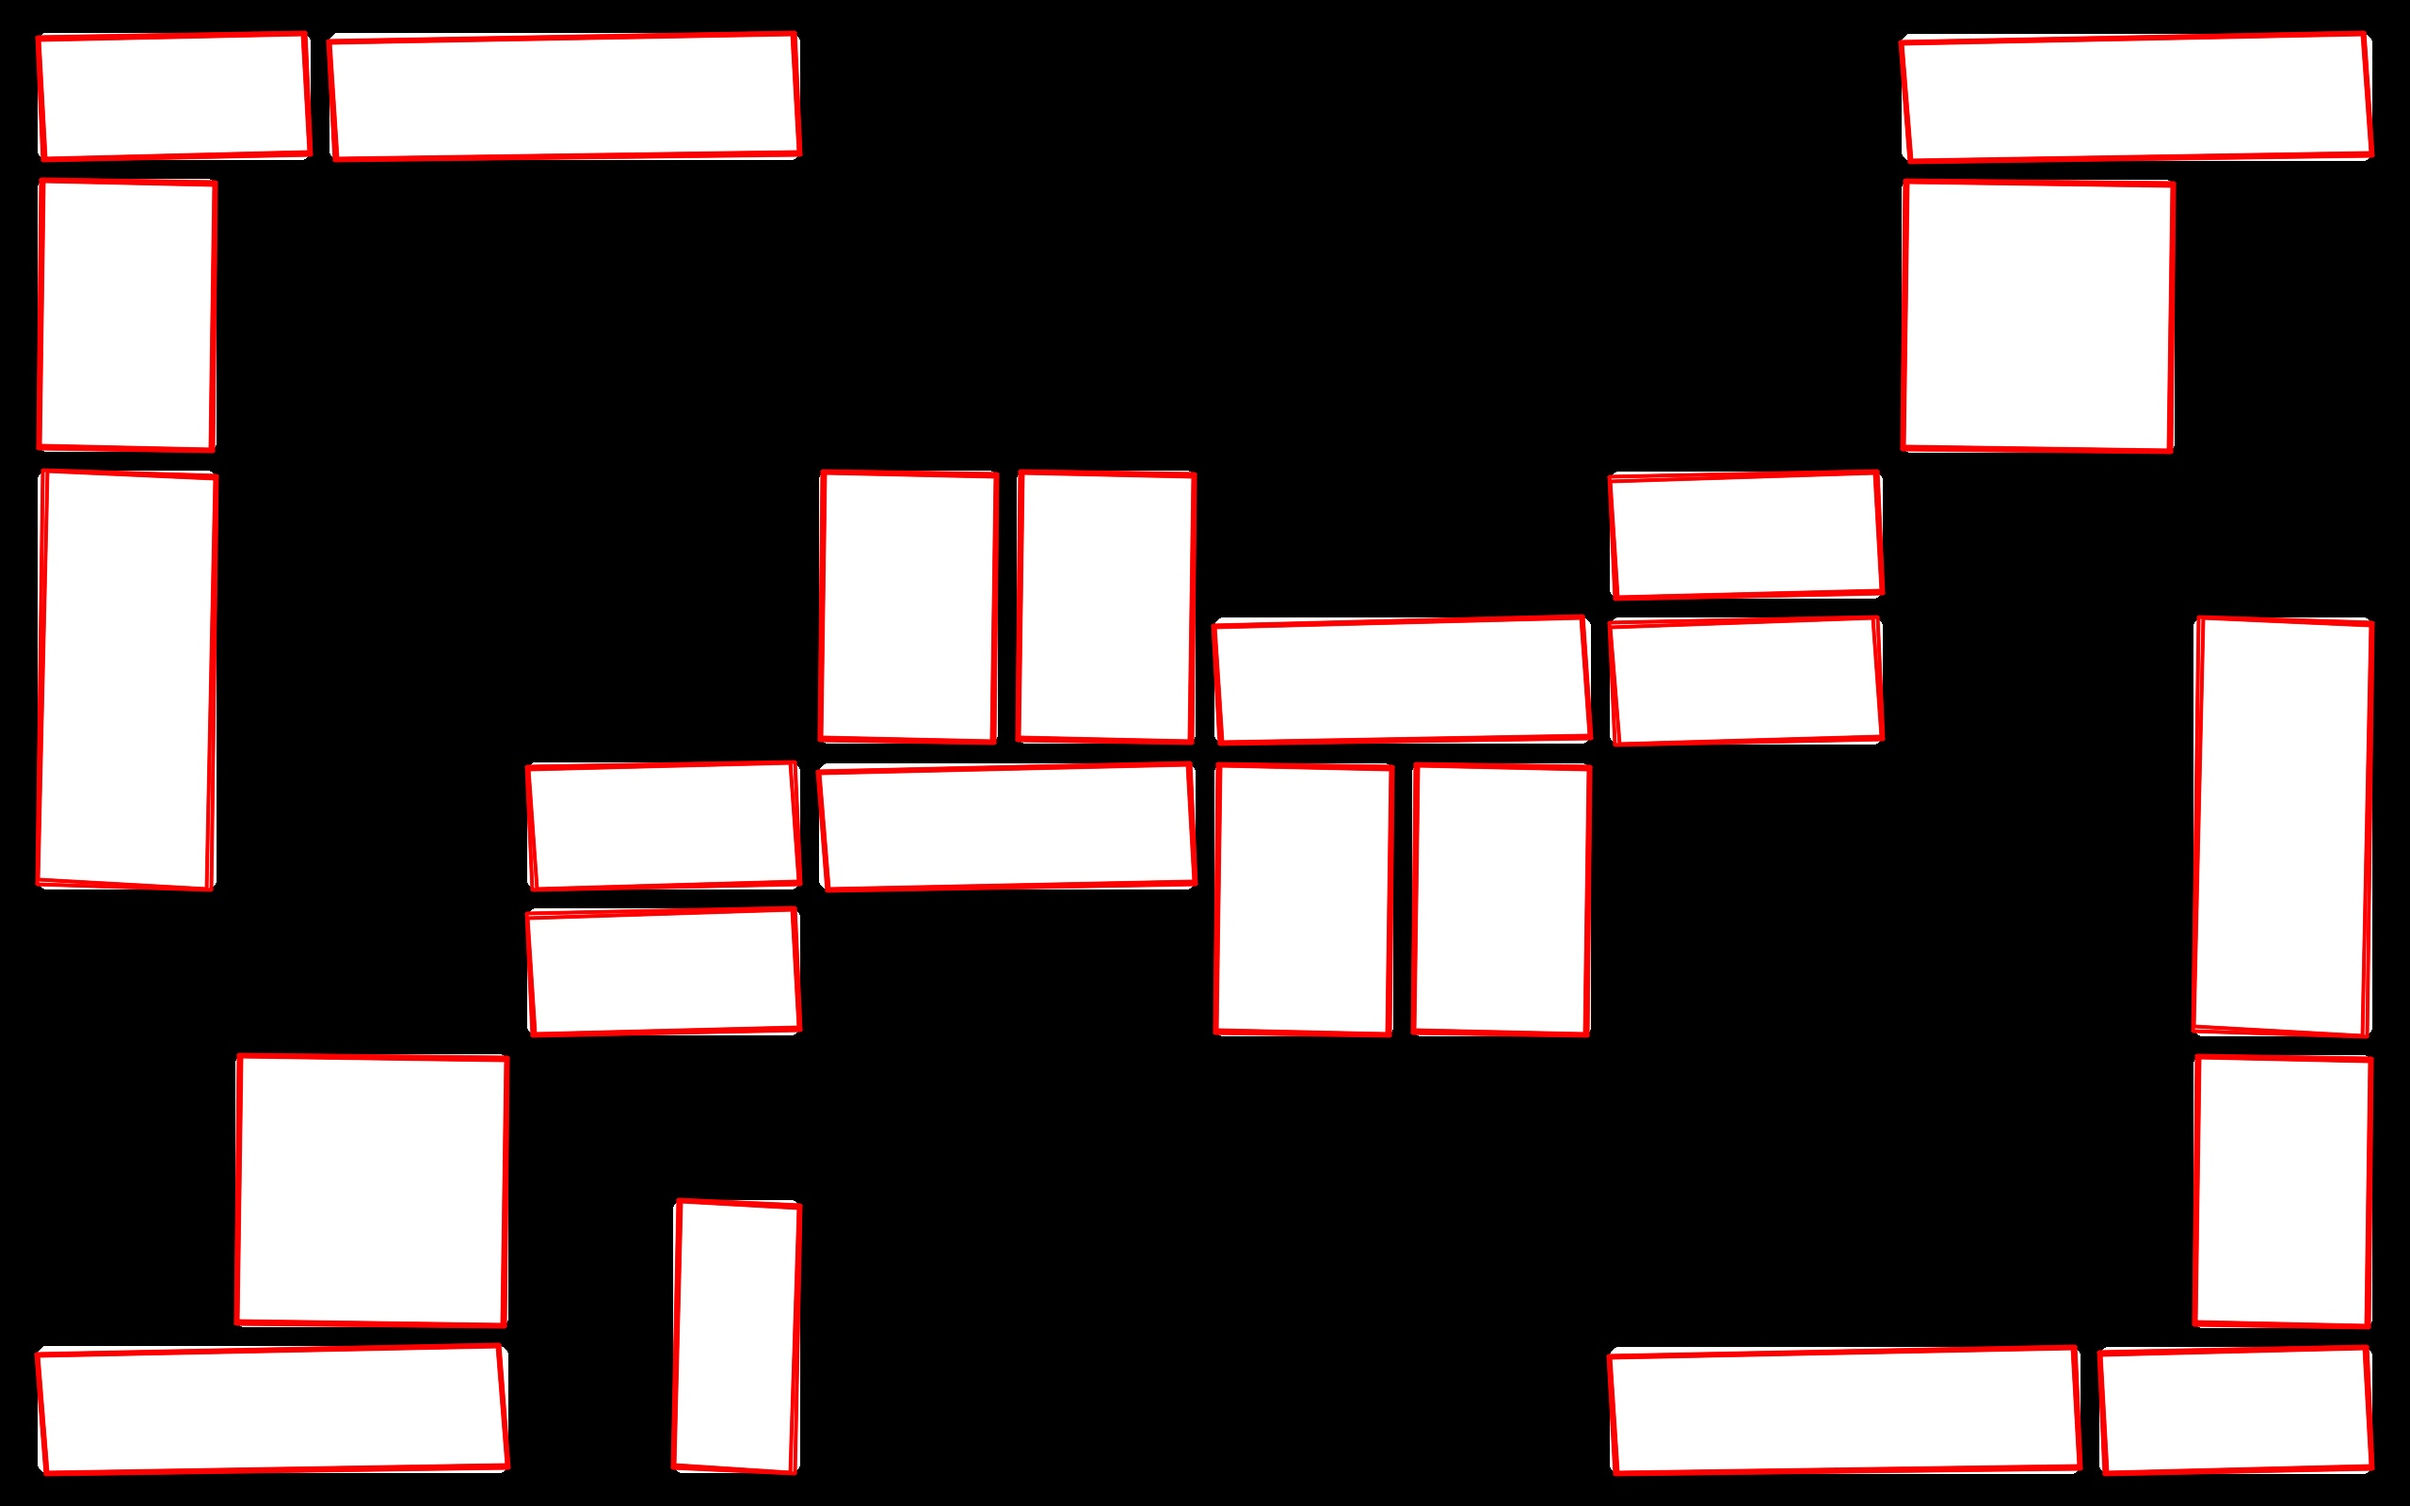
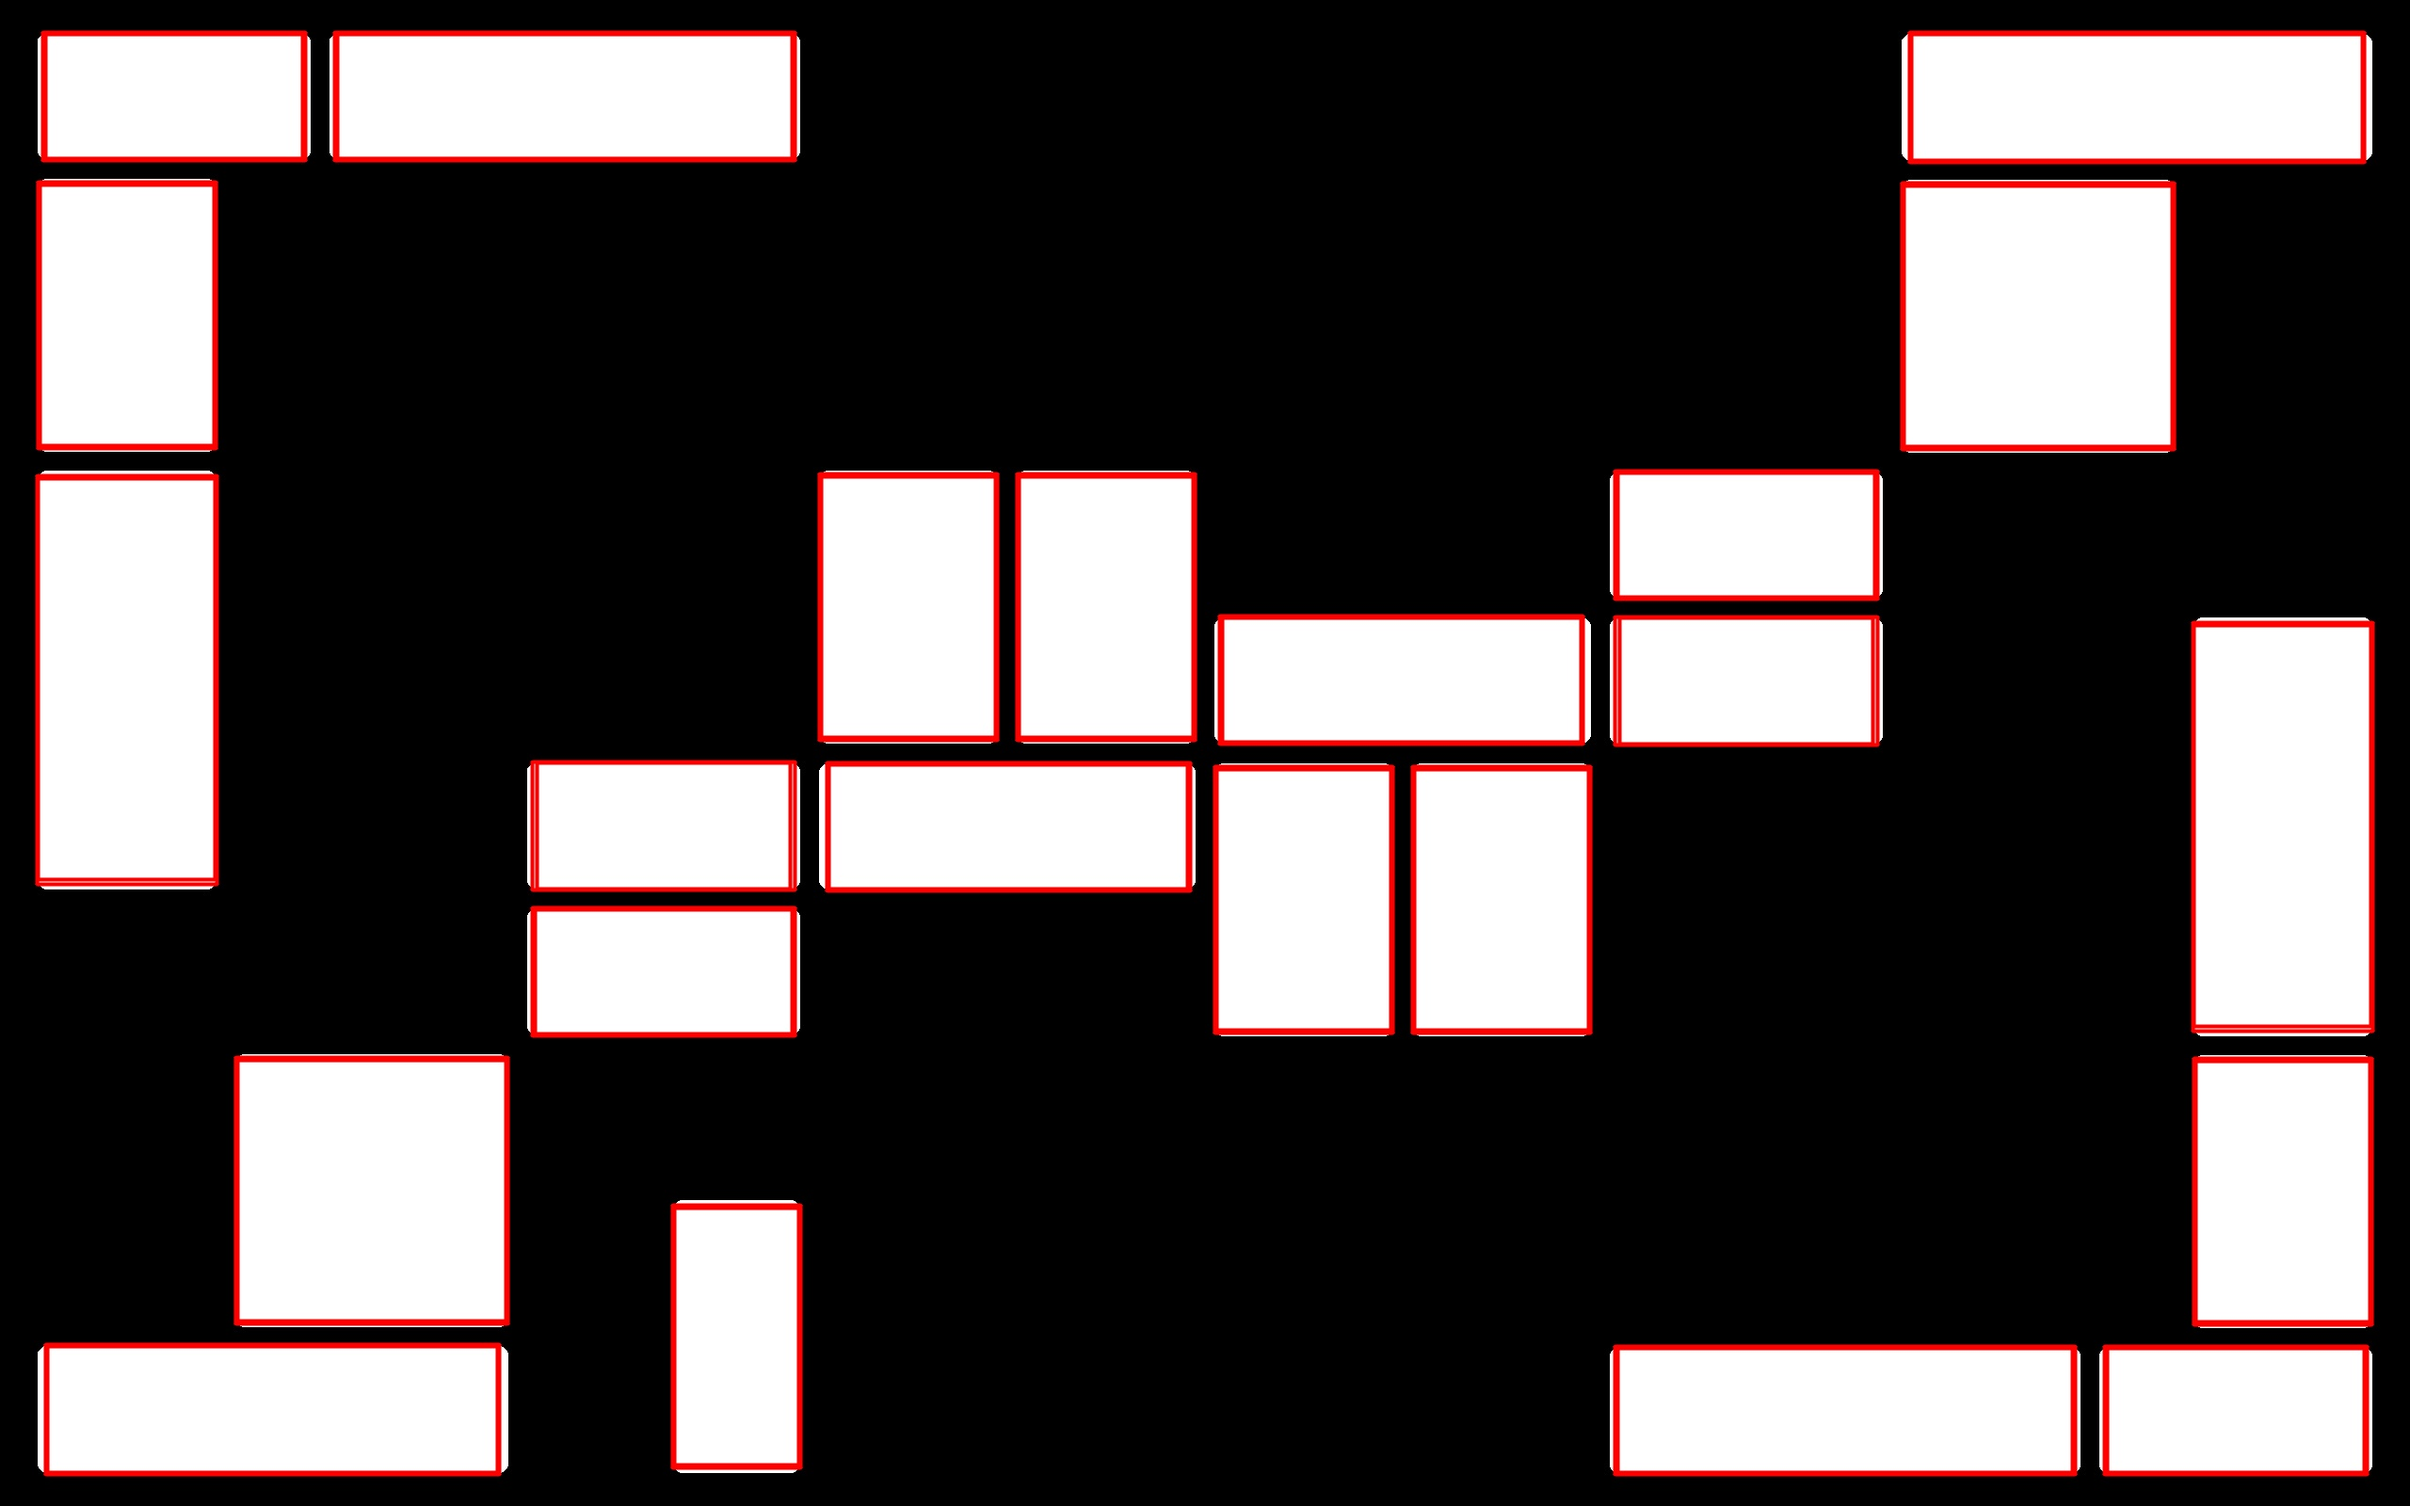
Create the Rectangle instead of the Polyline

diff --git a/SquareDetector.java b/SquareDetector.java
@@ -9,7 +9,7 @@ import org.bytedeco.javacpp.opencv_core.IplImage;
 import static org.bytedeco.javacpp.opencv_core.*;
 import static org.bytedeco.javacpp.opencv_imgproc.*;
 import static org.bytedeco.javacpp.opencv_highgui.*;
-import static org.bytedeco.javacpp.opencv_objdetect.*;
+import static org.bytedeco.javacpp.opencv_core.cvRectangle;
 
 public class SquareDetector {
 
@@ -182,11 +182,14 @@ public class SquareDetector {
 			bl.y(rect.position(3).y());
 			System.out.println(bl);
 			System.out.println();
+						
+			cvRectangle(cpy, bl, tr,
+					CV_RGB(255, 0, 0), 2, CV_AA, 0);
 			
 			
-			// draw the square as a closed polyline
-			cvPolyLine(cpy, rect.position(0), count, 1, 1, CV_RGB(255, 0, 0),
-					2, CV_AA, 0);
+//			// draw the square as a closed polyline
+//			cvPolyLine(cpy, rect.position(0), count, 1, 1, CV_RGB(255, 0, 0),
+//					2, CV_AA, 0);
 
 			// groupRectangles(rect.position(0), 1);
 
